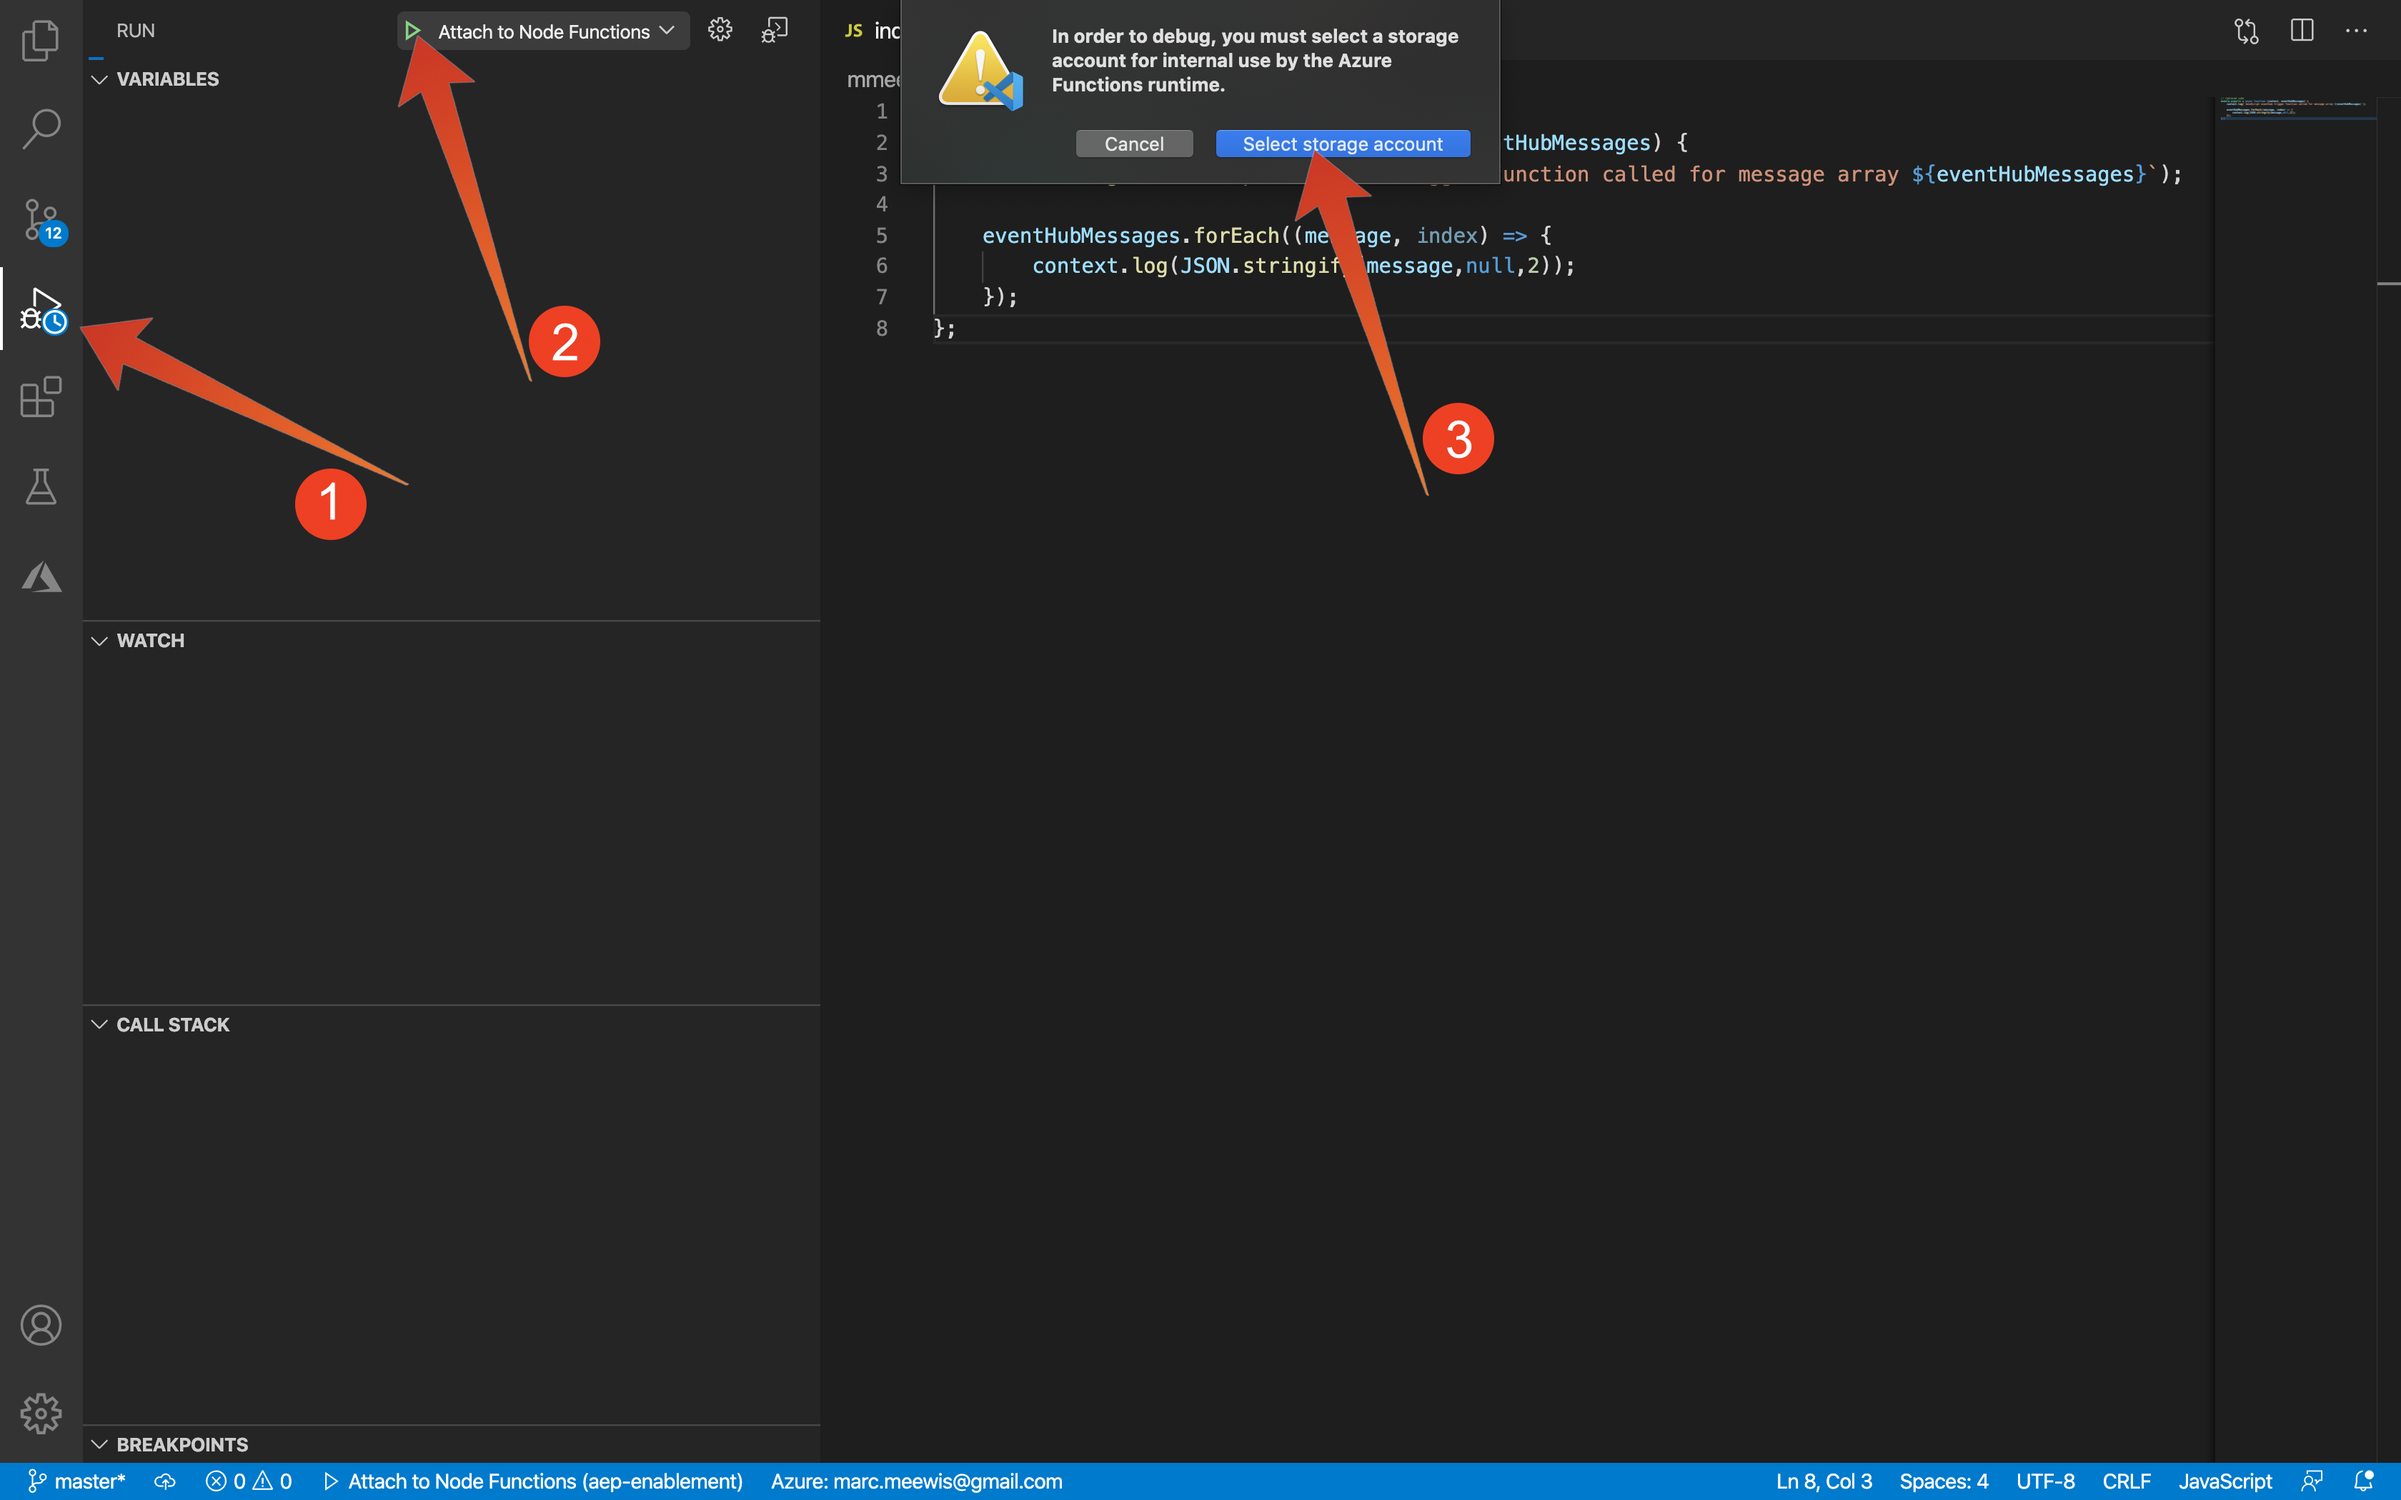
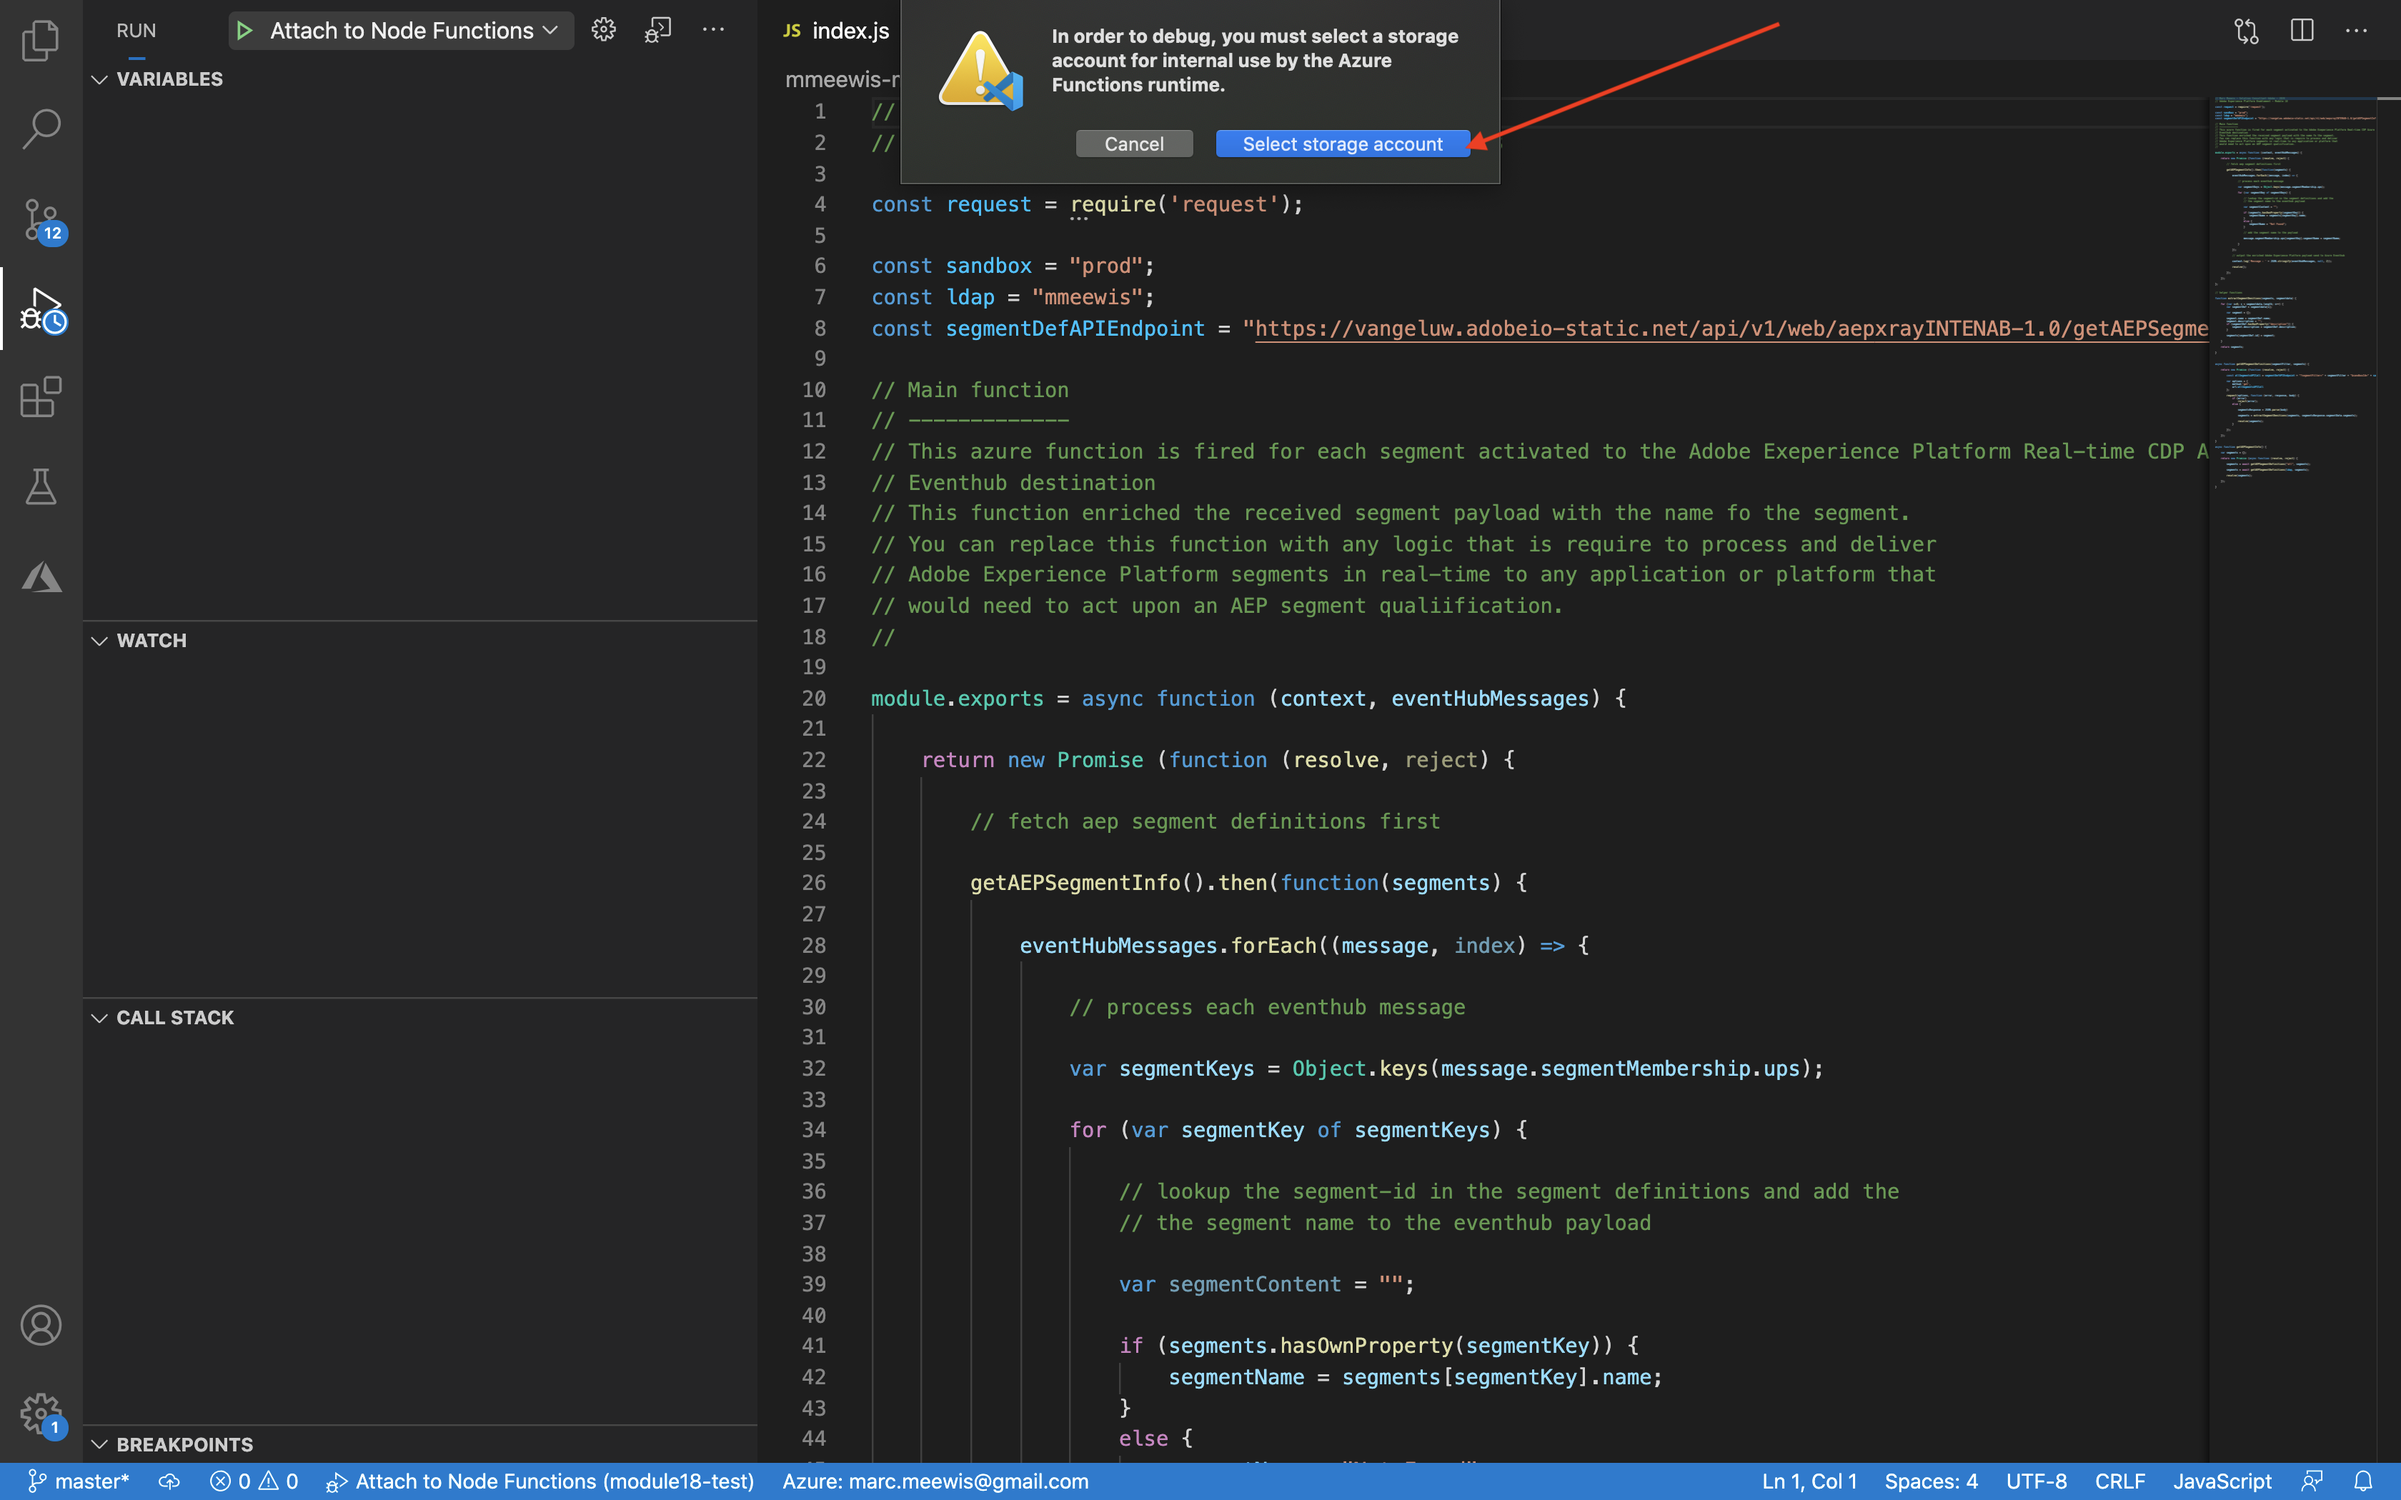
updates to module 18

diff --git a/help/tutorial-comprehensive-technical/modules/module18/ex5.md b/help/tutorial-comprehensive-technical/modules/module18/ex5.md
@@ -311,31 +311,15 @@ The result should look like:
 
 ## 18.5.4 Run Azure Project
 
-Now it is time to run your project. At this stage we will not deploy the project to Azure. We will run it locally in debug mode. Select the Run icon, click the green arrow. The first time you run you project in debug mode, you will need to attach a Azure storage account, hit Select storage account.
+Now it is time to run your project. At this stage we will not deploy the project to Azure. We will run it locally in debug mode. Select the Run icon, click the green arrow. The first time you run you project in debug mode, you will need to attach a Azure storage account, click **Select storage account**.
 
 ![3-17-vsc-run-project.png](./images/3-17-vsc-run-project.png)
 
-In the storage account wizard select + Create new storage account:
+From the list of storage accounts, select the one that you have created as part of [18.1.4 Setup your Azure Storage Account](./ex1.md). Your storage account is named **ldapaepstorage**, for instance: **mmeewisaepstorage**.
 
-![3-18-vsc-run-storage-account.png](./images/3-18-vsc-run-storage-account.png)
+![3-22-vsc-select-storage-account.png](./images/3-22-vsc-select-storage-account.png)
 
-Enter the name of the storage account, use the format **ldapaepstorage**, for example **mmeewisaepstorage** and hit enter:
-
-![3-19-vsc-run-storage-account-name.png](./images/3-19-vsc-run-storage-account-name.png)
-
-Select the resource group that you created as part of **exercise 1**. If you followed the naming conventions it will look like **ldap-aep-enablement**, for example **mmeewis-aep-enablement**
-  
-![3-20-vsc-run-storage-resource-group.png](./images/3-20-vsc-run-storage-resource-group.png)
-
-Select West Europe as the location for new resources:
-
-![3-21-vsc-run-storage-resource-location.png](./images/3-21-vsc-run-storage-resource-location.png)
-
-Let the storage account creation finish (can take 1-2 minutes):
-
-![3-22-vsc-create-storage-account.png](./images/3-22-vsc-create-storage-account.png)
-
-Your project is now up and running and is listing for events in the Event Hub. In the next exercise we will activate segments and demonstrate behavior in Luma Telco that will qualify us. As a result you will receive a segment qualification payload in the terminal of your Event Hub trigger function:
+Your project is now up and running and is listing for events in the Event Hub. In the next exercise you'll demonstrate behavior on the Luma Telco website that will qualify you for those segments. As a result you will receive a segment qualification payload in the terminal of your Event Hub trigger function:
 
 ![3-23-vsc-application-started.png](./images/3-23-vsc-application-started.png)
 

diff --git a/help/tutorial-comprehensive-technical/modules/module18/ex1.md b/help/tutorial-comprehensive-technical/modules/module18/ex1.md
@@ -84,6 +84,44 @@ Click **Event Hubs** in your event hub namespace. You should now see your **Even
 
 ![1-14-event-hub-list.png](./images/1-14-event-hub-list.png)
 
+## 18.1.4 Setup your Azure Storage Account
+
+To debug your Azure Event Hub function in later exercises, you'll need to provide an Azure Storage Account as part of your Visual Studio Code project setup. You'll now create that Azure Storage Account.
+
+Go to [https://portal.azure.com/#home](https://portal.azure.com/#home) and select **Create a Resource**.
+
+![1-15-event-hub-storage.png](./images/1-15-event-hub-storage.png)
+
+Enter **storage** in the search and select **Storage Account** from the list.
+
+![1-16-event-hub-search-storage.png](./images/1-16-event-hub-search-storage.png)
+
+Select **Create**.
+
+![1-17-event-hub-create-storage.png](./images/1-17-event-hub-create-storage.png)
+
+Specify your **Resource Group** (created in the beginning of this exercise), use **ldapaepstorage** as your Storage account name, for example **mmeewisaepstorage**, and select **Locally-redundant storage (LRS)**, then click **Review + create**.
+
+![1-18-event-hub-create-review-storage.png](./images/1-18-event-hub-create-review-storage.png)
+
+Click **Create**.
+
+![1-19-event-hub-submit-storage.png](./images/1-19-event-hub-submit-storage.png)
+
+Your Storage Account creation will take a couple seconds:
+
+![1-20-event-hub-deploy-storage.png](./images/1-20-event-hub-deploy-storage.png)
+
+When finished your screen will display the **Go to resource** button. 
+
+Click **Microsoft Azure**.
+
+![1-21-event-hub-deploy-ready-storage.png](./images/1-21-event-hub-deploy-ready-storage.png)
+
+Your Storage Account is now visible under **Recent Recources**.
+
+![1-22-event-hub-deploy-resources-list.png](./images/1-22-event-hub-deploy-resources-list.png)
+
 Next Step: [18.2 Configure your Azure Event Hub Destination in Adobe Experience Platform](./ex2.md)
 
 [Go Back to Module 18](./segment-activation-microsoft-azure-eventhub.md)

diff --git a/help/tutorial-comprehensive-technical/overview.md b/help/tutorial-comprehensive-technical/overview.md
@@ -198,6 +198,15 @@ Go to [Videos](./videos.md).
 - **Time Investment:** 90 minutes
 
 
+[18. Segment Activation to Microsoft Azure Event Hub](./modules/module18/segment-activation-microsoft-azure-eventhub.md)
+
+- **Audience:** Data Engineer, Data Architect, Data Analyst
+- **Prerequisites:** Access to Adobe Experience Platform, Real-time CDP and Microsoft Azure
+- **Description:** In this module, you'll setup a Microsoft Azure EventHub destination as a real-time destination for Adobe Experience Platform Real-time CDP. You will also setup and deploy an Azure function that will be triggered in real-time whenever Adobe Experience Platform delivers a segment payload to your Azure EventHub destination. The Azure Function that you'll trigger will show the mechanism of Adobe Experience Platform Real-time CDP's activation capabilities.
+As part of this module you will also get an understanding of what triggers Real-time CDP to actually deliver a payload to a specified destination. We will also discuss the status of a segment qualification and how it relates to activation.
+- **Time Investment:** 90 minutes
+
+
 >[!NOTE]
 >
 >Thank you for investing your time in learning all there is to know about Adobe Experience Platform. If you have questions, want to share general feedback of have suggestions on future content, please contact Wouter Van Geluwe directly, by sending an email to **vangeluw@adobe.com**.
